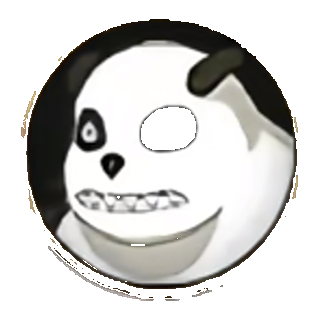
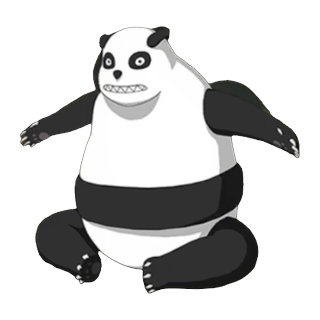
pages30l: 熊猫用户抠图砸击 + 鲛鲨美术下落帧
- summon_panda_body / panda_drop: 原图抠透（去羊皮纸+金印），真透明
- shark_drop = 美术 shark_summon/02 俯冲；icons/shark_summon/01–06
- 保留通灵·熊猫 4s 霸体；ASSET_V=pages30l

diff --git a/index.html b/index.html
@@ -51,7 +51,7 @@
 (function(){var t0=Date.now(),el=document.getElementById("bootT");var iv=setInterval(function(){if(!document.getElementById("boot")){clearInterval(iv);return;}el.textContent=Math.round((Date.now()-t0)/1000)+"s";},500);
 window.addEventListener("error",function(e){var m=document.getElementById("bootMsg");if(m&&e&&e.target&&e.target.src)m.textContent="脚本加载失败，正在重试…";},true);})();
 </script>
-<script src="game.js?v=pages30k" onerror="(function(s){var n=document.createElement('script');n.src='game.js?v=pages30k&r='+Date.now();document.body.appendChild(n);})(this)"></script>
+<script src="game.js?v=pages30l" onerror="(function(s){var n=document.createElement('script');n.src='game.js?v=pages30l&r='+Date.now();document.body.appendChild(n);})(this)"></script>
 
 <script>
 (function(){var last=0;

diff --git a/game.js b/game.js
@@ -70,7 +70,7 @@
   var charHover = -1;
   // pages23: spritesheet loader. Each kit is 1–3 webp atlases (~5 total) plus ~15
   // core images. fetch+blob decode; match load exclusive; 20s stall → retry UI.
-  var ASSET_V = "pages30k";
+  var ASSET_V = "pages30l";
   var ASSET_GROUPS = { core: [], obito: [], pain: [], tanjiro: [] };
   var assetErrors = [];
   var LOAD_CONCURRENCY = 8;
@@ -2133,7 +2133,7 @@
         });
       }
     } else if (id === "summon_panda") {
-      // pages30k: 熊猫从上垂直落下，落地砸一下后消失；施放者获 4s 霸体
+      // pages30l: 熊猫下落砸击换用户抠图；施放者获 4s 霸体（pages30k）
       var landX = f.x + f.facing * 130;
       var landY = f.y - 40;
       if (opp && opp.hp > 0) {

diff --git a/icons/shark_summon/README.md b/icons/shark_summon/README.md
@@ -1,0 +1,7 @@
+# 鲛鲨通灵帧
+
+01 入场 · 02 俯冲(已同步 shark_drop.png) · 03 下落中 · 04 咬合冲 · 05 咬合水花 · 06 收口
+
+栏标: icons/summon_shark.png
+单图兼容: icons/shark_drop.png
+多帧: icons/shark_summon/01-06.png
